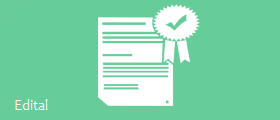
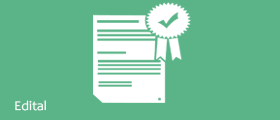
-Atualização do layout da página inicial. E primeiros passos para update das tuplas da instituição financiadora.

Changed region(s): [[0.3143, 0.025, 0.7143, 0.9], [0.0286, 0.825, 0.1714, 0.925]]

diff --git a/quality-manager_WEB/src/main/java/service/QManagerService.java b/quality-manager_WEB/src/main/java/service/QManagerService.java
@@ -7,9 +7,11 @@ import javax.ws.rs.Path;
 import javax.ws.rs.Produces;
 import javax.ws.rs.core.Response;
 
+import br.edu.ifpb.qmanager.entidade.Coordenador;
 import br.edu.ifpb.qmanager.entidade.Curso;
 import br.edu.ifpb.qmanager.entidade.Discente;
 import br.edu.ifpb.qmanager.entidade.Edital;
+import br.edu.ifpb.qmanager.entidade.Gestor;
 import br.edu.ifpb.qmanager.entidade.InstituicaoBancaria;
 import br.edu.ifpb.qmanager.entidade.InstituicaoFinanciadora;
 import br.edu.ifpb.qmanager.entidade.Login;
@@ -185,5 +187,83 @@ public interface QManagerService {
 	@Produces("application/json")
 	public Response servidorOnline();
 
+	/* 
+	 * Métodos de update 
+	 */
 
+	@POST
+	@Path("/editar/instituicaofinanciadora")
+	@Consumes("application/json")
+	@Produces("application/json")
+	public Response editarInstituicaoFinanciadora(
+			InstituicaoFinanciadora instituicaoFinanciadora);
+
+	@POST
+	@Path("/editar/programainstitucional")
+	@Consumes("application/json")
+	@Produces("application/json")
+	public Response editarProgramaInstitucional(
+			ProgramaInstitucional programaInstitucional);
+
+	@POST
+	@Path("/editar/edital")
+	@Consumes("application/json")
+	@Produces("application/json")
+	public Response editarEdital(Edital edital);
+
+	@POST
+	@Path("/editar/projeto")
+	@Consumes("application/json")
+	@Produces("application/json")
+	public Response editarProjeto(Projeto projeto);
+
+	@POST
+	@Path("/editar/discente")
+	@Consumes("application/json")
+	@Produces("application/json")
+	public Response editarDiscente(Discente discente);
+
+	@POST
+	@Path("/editar/orientador")
+	@Consumes("application/json")
+	@Produces("application/json")
+	public Response editarOrientador(Orientador orientador);
+
+	@POST
+	@Path("/editar/coordenador")
+	@Consumes("application/json")
+	@Produces("application/json")
+	public Response editarCoordenador(Coordenador coordenador);
+
+	@POST
+	@Path("/editar/gestor")
+	@Consumes("application/json")
+	@Produces("application/json")
+	public Response editarGestor(Gestor gestor);
+
+	@POST
+	@Path("/editar/participacao")
+	@Consumes("application/json")
+	@Produces("application/json")
+	public Response editarParticipacaoOrientador(Partipacao participacao);
+	
+	@POST
+	@Path("/editar/instituicaobancaria")
+	@Consumes("application/json")
+	@Produces("application/json")
+	public Response editarInstituicaoBancaria(
+			InstituicaoBancaria instituicaoBancaria);
+
+	@POST
+	@Path("/editar/curso")
+	@Consumes("application/json")
+	@Produces("application/json")
+	public Response editarCurso(Curso curso);
+
+	@POST
+	@Path("/editar/turma")
+	@Consumes("application/json")
+	@Produces("application/json")
+	public Response editarTurma(Turma turma);
+	
 }

diff --git a/quality-manager_WEB/src/main/java/managedBean/InstituicaoFinanciadoraBean.java b/quality-manager_WEB/src/main/java/managedBean/InstituicaoFinanciadoraBean.java
@@ -6,19 +6,18 @@ import java.util.List;
 
 import javax.faces.application.FacesMessage;
 import javax.faces.bean.ManagedBean;
-import javax.faces.bean.RequestScoped;
+import javax.faces.bean.ViewScoped;
 import javax.faces.context.FacesContext;
 import javax.ws.rs.core.GenericType;
 import javax.ws.rs.core.Response;
 
-import org.primefaces.event.CellEditEvent;
 import org.primefaces.event.RowEditEvent;
 
 import br.edu.ifpb.qmanager.entidade.Erro;
 import br.edu.ifpb.qmanager.entidade.InstituicaoFinanciadora;
 
 @ManagedBean
-@RequestScoped
+@ViewScoped
 public class InstituicaoFinanciadoraBean extends GenericBean implements
 		BeanInterface, Serializable {
 
@@ -75,15 +74,9 @@ public class InstituicaoFinanciadoraBean extends GenericBean implements
 	}
 
 	public void onRowEdit(RowEditEvent event) {
-		instituicaoFinanciadora
-				.setNomeInstituicaoFinanciadora(((InstituicaoFinanciadora) event
-						.getObject()).getNomeInstituicaoFinanciadora());
-		instituicaoFinanciadora.setSigla(((InstituicaoFinanciadora) event
-				.getObject()).getSigla());
-		instituicaoFinanciadora.setOrcamento(((InstituicaoFinanciadora) event
-				.getObject()).getOrcamento());
-
-		// TODO: Criar serviços de update
+		instituicaoFinanciadora = ((InstituicaoFinanciadora) event.getObject());
+		
+		service.editarInstituicaoFinanciadora(instituicaoFinanciadora);
 
 		FacesMessage msg = new FacesMessage("Edição concluída", String.format(
 				"%d", ((InstituicaoFinanciadora) event.getObject())
@@ -94,8 +87,8 @@ public class InstituicaoFinanciadoraBean extends GenericBean implements
 
 	public void onRowCancel(RowEditEvent event) {
 		FacesMessage msg = new FacesMessage("Edição cancelada", String.format(
-				"%s%d", "Instituição ID: ", ((InstituicaoFinanciadora) event.getObject())
-						.getIdInstituicaoFinanciadora()));
+				"%s%d", "Instituição ID: ", ((InstituicaoFinanciadora) event
+						.getObject()).getIdInstituicaoFinanciadora()));
 		FacesContext.getCurrentInstance().addMessage(null, msg);
 	}
 }
